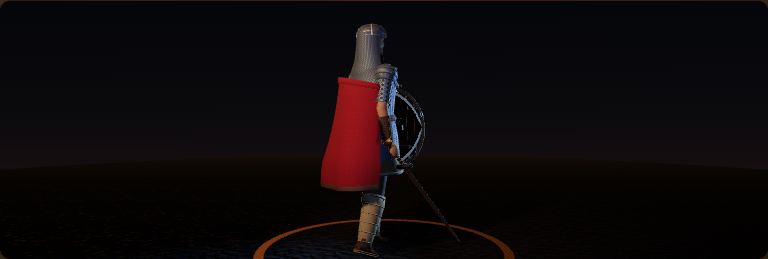
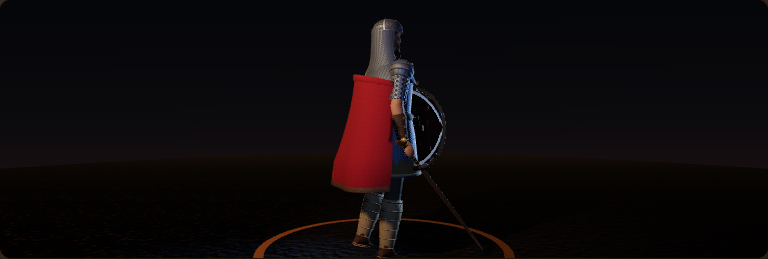
The cloak swings: the "topology mismatch" was a missing lookup
I declared the cloak unfixable-for-now on the grounds that anim.ts solves a
drape as a GRID (1 + DRAPE_COLS.length * DRAPE_RINGS) while the export writes a
CHAIN (CloakYoke, Drape1..6), withheld it, and wrote that into ONE-CLIENT as
"the one place the bridge does not hold".

THE COUNTS SHOULD HAVE BEEN THE FIRST THING CHECKED. The grid is 1 + 3 x 2 =
SEVEN bones. The export carries SEVEN. exportrig.mjs line 80:

    (pv.drape ?? []).forEach((b, i) => nameIt(b, i === 0 ? "CloakYoke" : `Drape${i}`));

`pv.drape` is the procedural rig's own drape array — the very array the solver
indexes. The export IS that grid, renamed by index. There was never a mismatch;
there was a lookup nobody had written.

So the cloak takes the same bridge the pose joints do: rig.pivots.drape is
repointed at CloakYoke/Drape1..6 and the cloth solver integrates its springs
onto the authored bones. Same swing, same springs, authored cloth.

TWICE NOW I HAVE REACHED THE INTERESTING EXPLANATION BEFORE THE CHEAP CHECK —
the floating shield was blamed on bind poses and was a wrong mount, and this was
blamed on topology and was a missing lookup. Both corrections are kept in the
source beside what they replaced, because the pattern is more useful than
either fix.

All-or-nothing, like the pose joints: a half-found drape is a cloak with some
bones swinging and some in rest pose, which is worse to look at than none.

authoredtest 64/64. The huscarl now draws with helm, mail, a cloak that hangs,
[…]

Changed region(s): [[0.0, 0.0618, 1.0, 1.0], [0.0, 0.0, 1.0, 0.0309]]

diff --git a/src/game/client/render/authored.ts b/src/game/client/render/authored.ts
@@ -34,27 +34,46 @@ import type * as THREE from "three";
 export const AUTHORED_ROLES = ["helm", "beard", "hair", "cloak"] as const;
 
 /**
- * ROLES THE AUTHORED MAN CANNOT WEAR YET, and the reason is topology.
+ * THE DRAPE, AND THE "TOPOLOGY MISMATCH" THAT WAS NOT ONE — corrected 7 Sep 2026.
  *
- * THE CLOAK. `anim.ts` solves a drape as a GRID — `DRAPE_BONES = 1 +
- * DRAPE_COLS.length * DRAPE_RINGS`, with a per-bone velocity integrator that
- * makes cloth swing behind a turning man. `exportrig.mjs` writes a CHAIN:
- * `CloakYoke` and `Drape1..Drape6`. Those are different shapes, so the solver
- * cannot drive the export's bones by naming them the way the pose drives its
- * joints — this is the one place the bridge does NOT hold.
+ * This file declared the cloak unfixable-for-now on the grounds that `anim.ts`
+ * solves a drape as a GRID (`1 + DRAPE_COLS.length * DRAPE_RINGS`) while the
+ * export writes a CHAIN (`CloakYoke`, `Drape1..6`), and withheld it. **That was
+ * wrong, and the counts should have been the first thing checked**: the grid is
+ * 1 + 3 × 2 = SEVEN bones, and the export carries SEVEN. `exportrig.mjs` line 80:
  *
- * Left unposed, the export's cloak stands in its rest pose: a wide cone that
- * swallows the man. That is what the first authored capture showed, and it is
- * why the cloak is hidden rather than shipped broken. `REBUILD-PLAN.md` already
- * said it — "the cloak's drape chain is not yet animated (stiff in the clips)"
- * — and this is that sentence meeting a renderer.
+ *     (pv.drape ?? []).forEach((b, i) => nameIt(b, i === 0 ? "CloakYoke" : `Drape${i}`));
  *
- * What it costs: an authored man wears no cloak. What it buys: he is not a
- * traffic cone. Closing it is either a chain solver in `anim.ts` or a grid
- * export from Blender, and it is the largest single thing between here and a
- * man who can replace the procedural one outright.
+ * `pv.drape` is the procedural rig's own drape array — the very array the
+ * solver indexes. The export IS that grid, renamed by index. There is no
+ * mismatch; there is a name map, exactly as there is for the pose joints.
+ *
+ * Twice now the interesting explanation has been reached before the cheap
+ * check: the floating shield was blamed on bind poses and was a wrong mount,
+ * and this was blamed on topology and was a missing lookup.
  */
-export const AUTHORED_ROLES_UNPOSED = new Set<AuthoredRole>(["cloak"]);
+export const DRAPE_BONE_NAMES = [
+  "CloakYoke", "Drape1", "Drape2", "Drape3", "Drape4", "Drape5", "Drape6",
+] as const;
+
+/**
+ * The drape bones in the solver's own index order, or null.
+ *
+ * ALL OR NOTHING, for the reason the pose joints are: a half-found drape is a
+ * cloak with some bones swinging and some standing in rest pose, which is worse
+ * to look at than a cloak that is simply absent.
+ */
+export function drapeBonesOf(root: THREE.Object3D): THREE.Object3D[] | null {
+  const byName = new Map<string, THREE.Object3D>();
+  root.traverse((o) => { if (o.name && !byName.has(o.name)) byName.set(o.name, o); });
+  const out: THREE.Object3D[] = [];
+  for (const n of DRAPE_BONE_NAMES) {
+    const b = byName.get(n);
+    if (!b) return null;
+    out.push(b);
+  }
+  return out;
+}
 
 /**
  * WHAT I BLAMED ON THE REST POSE, AND IT WAS A WRONG MOUNT — 7 Sep 2026.
@@ -401,10 +420,16 @@ export function missingPivotBones(root: THREE.Object3D): PivotSlot[] {
 export interface UpgradableRig {
   body: THREE.Object3D;
   pivots: Record<string, THREE.Object3D>;
-  /** What the man is holding. Re-parented onto the authored wrists. */
+  /** What the man is holding. Re-parented onto the authored mounts. */
   weapon?: THREE.Object3D;
   offhand?: THREE.Object3D;
   shield?: THREE.Object3D;
+  /**
+   * The drape the cloth solver integrates, in its own index order. Repointed at
+   * the authored bones so the cloak swings on the same springs the procedural
+   * one does — `exportrig` named them straight off this array.
+   */
+  drape?: THREE.Object3D[];
 }
 
 export interface AuthoredSwap {
@@ -419,7 +444,7 @@ export interface AuthoredSwap {
 }
 
 export type SwapResult =
-  | { ok: true; dressed: number; hidden: number; joints: number; rehung: number }
+  | { ok: true; dressed: number; hidden: number; joints: number; rehung: number; drape: number }
   | { ok: false; why: string };
 
 /**
@@ -465,12 +490,7 @@ export function upgradeRigToAuthored(rig: UpgradableRig, swap: AuthoredSwap): Sw
   }
 
   // 3. Nothing above this line has mutated anything. From here it commits.
-  // Anything the armoury sold him, MINUS anything the renderer cannot yet pose.
-  // A role that cannot move is worse than a role that is absent.
-  const wearable = new Set<AuthoredRole>(
-    [...swap.wornRoles].filter((r) => !AUTHORED_ROLES_UNPOSED.has(r)),
-  );
-  const hidden = hideBakedRoles(swap.scene, wearable);
+  const hidden = hideBakedRoles(swap.scene, swap.wornRoles);
   const { dressed } = dressFromSurfaceNames(swap.scene, swap.resolveMaterial);
 
   // The procedural body goes; the authored one takes its place under the same
@@ -499,5 +519,17 @@ export function upgradeRigToAuthored(rig: UpgradableRig, swap: AuthoredSwap): Sw
   let joints = 0;
   for (const [slot, bone] of Object.entries(bones)) { rig.pivots[slot] = bone; joints++; }
 
-  return { ok: true, dressed, hidden, joints, rehung: held.length };
+  // 5. AND THE CLOTH. The solver integrates a spring per drape bone and writes
+  //    the result onto `rig.drape[i]`; pointing that array at the export's own
+  //    `CloakYoke`/`Drape1..6` is the whole of making an authored cloak swing.
+  //    Optional: a class with no cloak has no drape, and that is not a failure.
+  let drape = 0;
+  if (rig.drape && rig.drape.length) {
+    const authored = drapeBonesOf(swap.scene);
+    if (authored && authored.length === rig.drape.length) {
+      for (let i = 0; i < authored.length; i++) { rig.drape[i] = authored[i]; drape++; }
+    }
+  }
+
+  return { ok: true, dressed, hidden, joints, rehung: held.length, drape };
 }

diff --git a/src/game/client/armouryStage.ts b/src/game/client/armouryStage.ts
@@ -614,6 +614,9 @@ export function createArmouryStage(mount: HTMLElement, initial: StageLoadout): S
             // What he is holding, so the swap can put it back on the authored
             // wrists instead of deleting it with the procedural arm.
             weapon: want.weapon, offhand: want.offhand, shield: want.shield,
+            // The cloth solver's own array. Repointed at the export's
+            // CloakYoke/Drape1..6, which ARE these bones renamed by index.
+            drape: want.pivots.drape as unknown as THREE.Object3D[] | undefined,
           },
           {
             scene: asset.scene, clips: asset.clips, wornRoles: worn,
